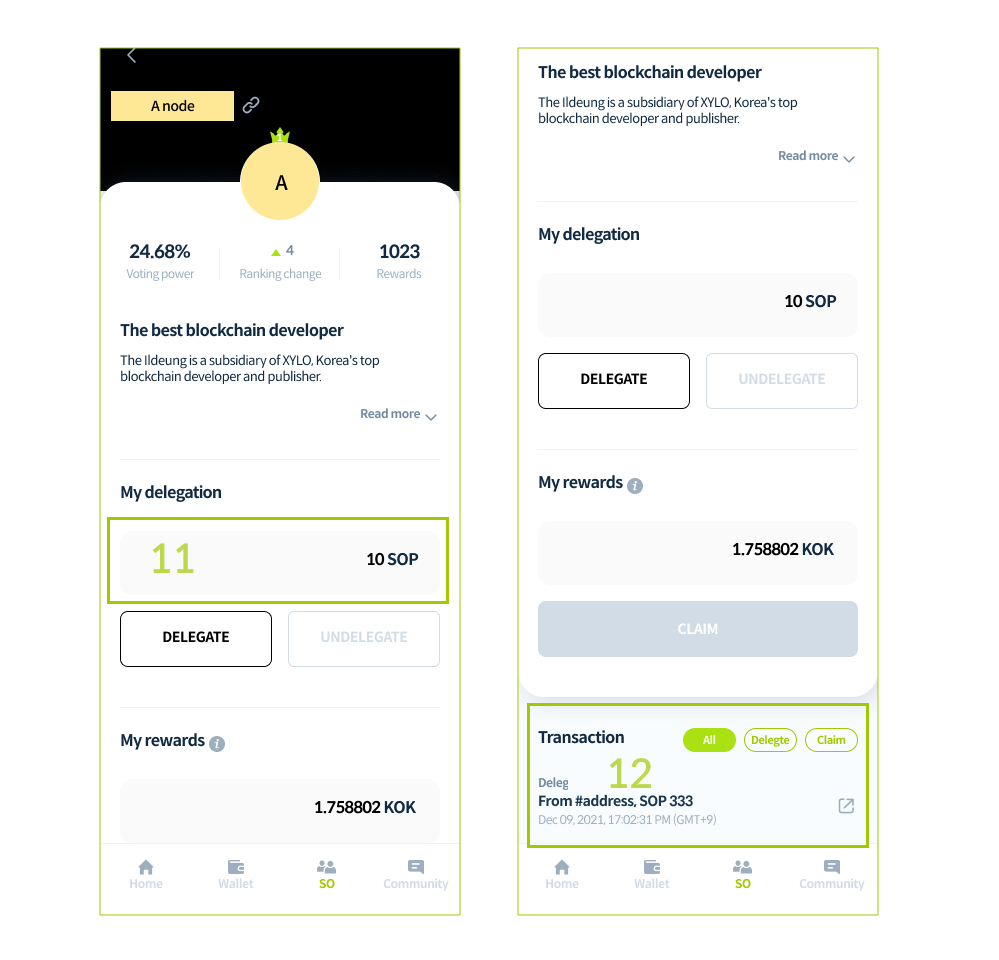
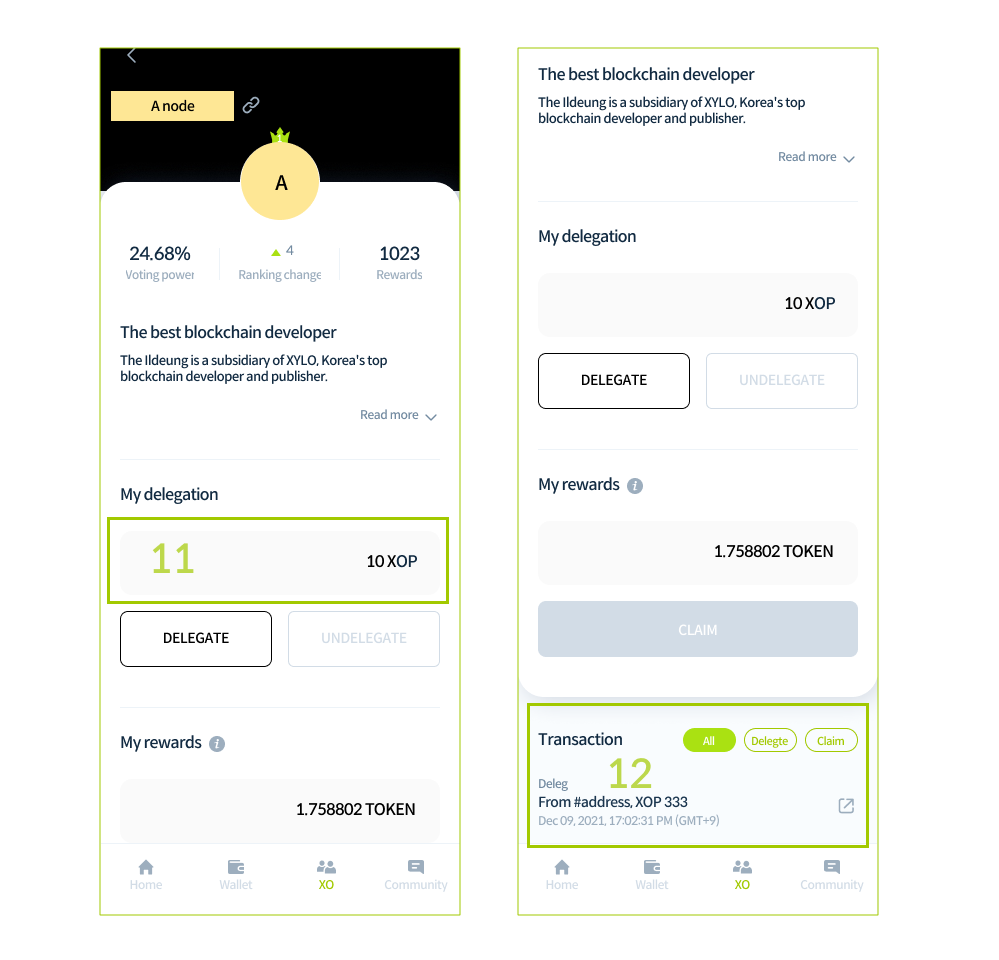
GitBook: [#75] No subject

diff --git a/xylo-all-in-one-guide.md b/xylo-all-in-one-guide.md
@@ -18,10 +18,10 @@ XYLO APP uses the Groundchain network, so please convert the network of TOKEN by
 1. On the XYLO app, tap the Sign In button at the top. On the Sign In page, tap the Sign Up button to go to the membership page.&#x20;
 
 {% hint style="info" %}
-To SEND TO COMMUNITY, you need XYLO Wallet. To create Wallet, please Sign Up first.&#x20;
+To SEND TO COMMUNITY, you need XYLO Wallet. To create Wallet, please Sign Up firs
 {% endhint %}
 
-<figure><img src=".gitbook/assets/gitbook_image1.png" alt=""><figcaption></figcaption></figure>
+<figure><img src=".gitbook/assets/gitbook_image1 (1).png" alt=""><figcaption></figcaption></figure>
 
 2\. Enter your ID and Name.
 
@@ -56,7 +56,7 @@ The email entered will be used for verification purposes so please be sure to en
 ### Confirm Wallet Address
 
 1. Go to the Wallet menu at the bottom of the app.
-2. Check the wallet address created with the subscription and relevant assets.
+2. Check the wallet address created with the subscription and relevant assets.ma
 
 <figure><img src=".gitbook/assets/gitbook_image5.png" alt=""><figcaption></figcaption></figure>
 
@@ -198,7 +198,7 @@ You can proceed confirmation by clicking Confirm button in the History. In addit
 {% hint style="info" %}
 To invest in Community Pool, TOKEN is needed.&#x20;
 
-Sign up and send TOKEN to your wallet through Bridge.
+Sign up and send TOKEN to your wallet through Bridge
 {% endhint %}
 
 <figure><img src=".gitbook/assets/gitbook_image6.png" alt=""><figcaption></figcaption></figure>
@@ -219,7 +219,7 @@ Enter amount considering fees. Minimum amount is 10 TOKEN.
 
 7\. Tap the OK button.&#x20;
 
-<figure><img src=".gitbook/assets/gitbook_image8.png" alt=""><figcaption></figcaption></figure>
+<figure><img src=".gitbook/assets/gitbook_image8 (1).png" alt=""><figcaption></figcaption></figure>
 
 8-1. Transaction proceeds.&#x20;
 
@@ -227,7 +227,7 @@ Enter amount considering fees. Minimum amount is 10 TOKEN.
 
 9\. Tap the OK button.
 
-10\. You can go to the Wallet menu to view XOP and transactions.
+10\. You can go to the Wallet menu to view XOP and transactions.ㅑㅡㅁㅎㄱㄷ
 
 <figure><img src=".gitbook/assets/gitbook_image9 (1).png" alt=""><figcaption></figcaption></figure>
 
@@ -242,7 +242,7 @@ Enter amount considering fees. Minimum amount is 10 TOKEN.
 2-2. You can DELEGATE in XO detail page.
 {% endhint %}
 
-<figure><img src=".gitbook/assets/gitbook_image10.png" alt=""><figcaption></figcaption></figure>
+<figure><img src=".gitbook/assets/gitbook_image10 (1).png" alt=""><figcaption></figcaption></figure>
 
 3\. Select the XO.
 
@@ -250,13 +250,11 @@ Enter amount considering fees. Minimum amount is 10 TOKEN.
 
 5\. Tap the NEXT button.
 
-<figure><img src=".gitbook/assets/gitbook_image11.png" alt=""><figcaption></figcaption></figure>
-
 6\. Check the XO and XOP and tap the SEND button.
 
 7\. Enter your password.
 
-8\. Tap the OK button.&#x20;
+8\. Tap the OK button.
 
 <figure><img src=".gitbook/assets/gitbook_image12.png" alt=""><figcaption></figcaption></figure>
 
@@ -266,7 +264,7 @@ Enter amount considering fees. Minimum amount is 10 TOKEN.
 
 10\. Tap the OK button.
 
-<figure><img src=".gitbook/assets/gitbook_image13.png" alt=""><figcaption></figcaption></figure>
+<figure><img src=".gitbook/assets/gitbook_image13 (1).png" alt=""><figcaption></figcaption></figure>
 
 11\. You can check the status and rewards of delegation on the detailed page of the delegated XO.
 
@@ -284,7 +282,7 @@ Depending on network condition, XOP amount may be reflected after a little while
 2. Go to the details page of the delegated XO.
 3. After checking the reward, tap the CLAIM button.
 
-<figure><img src=".gitbook/assets/gitbook_image15.png" alt=""><figcaption></figcaption></figure>
+<figure><img src=".gitbook/assets/gitbook_image15 (1).png" alt=""><figcaption></figcaption></figure>
 
 4\. Check the TOKEN amount and tap the CONFIRM button.
 
@@ -292,7 +290,7 @@ Depending on network condition, XOP amount may be reflected after a little while
 
 6\. Tap the OK button.
 
-<figure><img src=".gitbook/assets/gitbook_image16.png" alt=""><figcaption></figcaption></figure>
+<figure><img src=".gitbook/assets/gitbook_image16 (1).png" alt=""><figcaption></figcaption></figure>
 
 7\. Transaction proceeds.
 
@@ -300,11 +298,13 @@ Depending on network condition, XOP amount may be reflected after a little while
 
 9\. Tap the OK button.
 
+<figure><img src=".gitbook/assets/gitbook_image17 (1).png" alt=""><figcaption></figcaption></figure>
+
 10\. You can check the transection the details page of the delegated XO.
 
 11\. Go to the Wallet menu and check the TOKEN and transactions. Download XYLO app.
 
-<figure><img src=".gitbook/assets/gitbook_image18.png" alt=""><figcaption></figcaption></figure>
+<figure><img src=".gitbook/assets/gitbook_image18 (1).png" alt=""><figcaption></figcaption></figure>
 
 ## Community&#x20;
 

diff --git a/xylo-app/use-xylo.md b/xylo-app/use-xylo.md
@@ -11,7 +11,7 @@
 To invest in Community Pool, TOKEN is needed.  sign up and send TOKEN to your wallet through Bridge.
 {% endhint %}
 
-<figure><img src="../.gitbook/assets/gitbook_image6.png" alt=""><figcaption></figcaption></figure>
+<figure><img src="../.gitbook/assets/gitbook_image6 (1).png" alt=""><figcaption></figcaption></figure>
 
 3\. Agree with the precautions, And enter the amount of TOKEN you want to remit.
 
@@ -21,7 +21,7 @@ To invest in Community Pool, TOKEN is needed.  sign up and send TOKEN to your
 Enter amount considering fees. Minimum amount is 10 TOKEN.
 {% endhint %}
 
-<figure><img src="../.gitbook/assets/gitbook_image7.png" alt=""><figcaption></figcaption></figure>
+<figure><img src="../.gitbook/assets/gitbook_image7 (1).png" alt=""><figcaption></figcaption></figure>
 
 5\. Check the amount of TOKEN, And tap the SEND button.
 
@@ -61,7 +61,7 @@ Enter amount considering fees. Minimum amount is 10 TOKEN.
 
 5\. Tap the NEXT button.
 
-<figure><img src="../.gitbook/assets/gitbook_image11.png" alt=""><figcaption></figcaption></figure>
+<figure><img src="../.gitbook/assets/gitbook_image11 (1).png" alt=""><figcaption></figcaption></figure>
 
 6\. Check the XO and XOP and tap the SEND button.
 
@@ -69,7 +69,7 @@ Enter amount considering fees. Minimum amount is 10 TOKEN.
 
 8\. Tap the OK button.&#x20;
 
-<figure><img src="../.gitbook/assets/gitbook_image12.png" alt=""><figcaption></figcaption></figure>
+<figure><img src="../.gitbook/assets/gitbook_image12 (1).png" alt=""><figcaption></figcaption></figure>
 
 9-1. Tansaction proceeds.&#x20;
 
@@ -87,7 +87,7 @@ Enter amount considering fees. Minimum amount is 10 TOKEN.
 &#x20;Depending on network condition, XOP amount may be reflected after a little while.
 {% endhint %}
 
-<figure><img src="../.gitbook/assets/gitbook_image14.png" alt=""><figcaption></figcaption></figure>
+<figure><img src="../.gitbook/assets/gitbook_image14 (1).png" alt=""><figcaption></figcaption></figure>
 
 
 

diff --git a/xylo-app/get-starded.md b/xylo-app/get-starded.md
@@ -63,7 +63,7 @@ If you’ve lost your Password, you can reset it through the Forgot Password fun
 1. Go to the Wallet menu at the bottom of the app.
 2. Check the wallet address created with the subscription and relevant assets.
 
-<figure><img src="../.gitbook/assets/gitbook_image5.png" alt=""><figcaption></figcaption></figure>
+<figure><img src="../.gitbook/assets/gitbook_image5 (1).png" alt=""><figcaption></figcaption></figure>
 
 ## Receive tokens from Exchange
 

diff --git a/README.md b/README.md
@@ -46,7 +46,7 @@ XYLO's reward philosophy is to provide more rewards to those who have invested m
 * To maintain network, XYLO Owner operate nodes and produce blocks.
 {% endtab %}
 
-{% tab title="SO activity reward" %}
+{% tab title="XO activity reward" %}
 * 5% of XO's total reward.
 * It can be used as server maintenance, marketing, team activity cost.
 {% endtab %}
